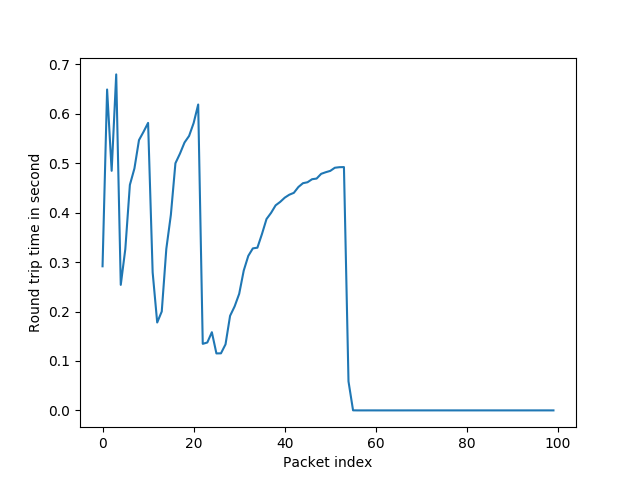
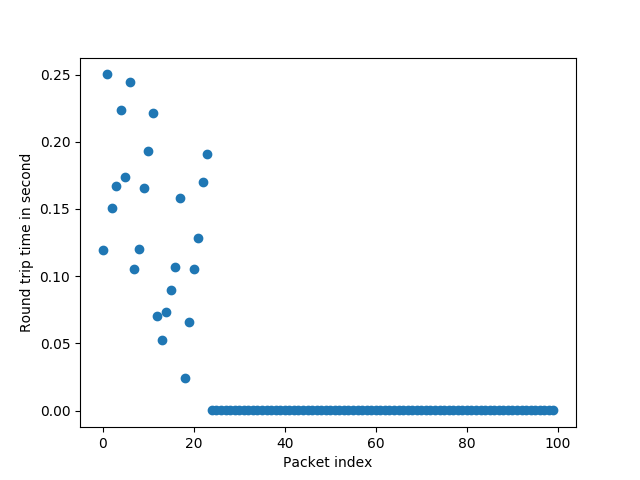
fixed DT

diff --git a/trend.py b/trend.py
@@ -59,8 +59,8 @@ def decreasing_trend_filter(timestamps, packet_loss, train_length):
     mean = np.mean(timestamps)
     standard_derivation = compute_standard_derivation(timestamps)
     burst_packet_index_list = []
-    print("Mean: " + mean)
-    print("Standard Derivation: " + standard_derivation)
+    print("Mean: " + str(mean))
+    print("Standard Derivation: " + str(standard_derivation))
     for i in range(len(timestamps)):
         if mean + standard_derivation < timestamps[i]:
             burst_packet_index_list.append(i)
@@ -70,13 +70,15 @@ def decreasing_trend_filter(timestamps, packet_loss, train_length):
     decreasing_trend_index_list = []
     for i in range(len(burst_packet_index_list)):
         decreasing_trend = True
+        tmp = []
         last_packet_rtt = timestamps[burst_packet_index_list[i]]
-        for j in range(globals.DT_CONSECUTIVE):
+        for j in range(1, 1 +  globals.DT_CONSECUTIVE):
             if last_packet_rtt < timestamps[burst_packet_index_list[i] + j]:
                 decreasing_trend = False
                 break
+            tmp.append(burst_packet_index_list[i] + j)
         if decreasing_trend:
-            decreasing_trend_index_list.append(burst_packet_index_list[i])
+            decreasing_trend_index_list.extend(tmp)
     print(decreasing_trend_index_list)
     burst_packet_index_list.append(decreasing_trend_index_list)
     list.sort(burst_packet_index_list)

diff --git a/awb_estimation.py b/awb_estimation.py
@@ -144,7 +144,7 @@ def calculate_transmission_interval(transmission_rate, train_length, packet_size
 
 
 def plot_results(packet_train_response, round_trip_times, filename='rtt.png', clear=False):
-    mp.plot(np.array(range(len(packet_train_response))), np.array(round_trip_times))
+    mp.plot(np.array(range(len(packet_train_response))), np.array(round_trip_times), 'o')
     mp.ylabel("Round trip time in second")
     mp.xlabel("Packet index")
     mp.savefig(filename, format='png')

diff --git a/globals.py b/globals.py
@@ -2,7 +2,7 @@ global MIN_TRAIN_LENGTH
 global MIN_TRANSMISSION_INTERVAL
 MIN_TRANSMISSION_INTERVAL = 0.001
 global DT_CONSECUTIVE
-DT_CONSECUTIVE = 8
+DT_CONSECUTIVE = 4
 global BOUNDARY_PCT
 global BOUNDARY_PDT
 
